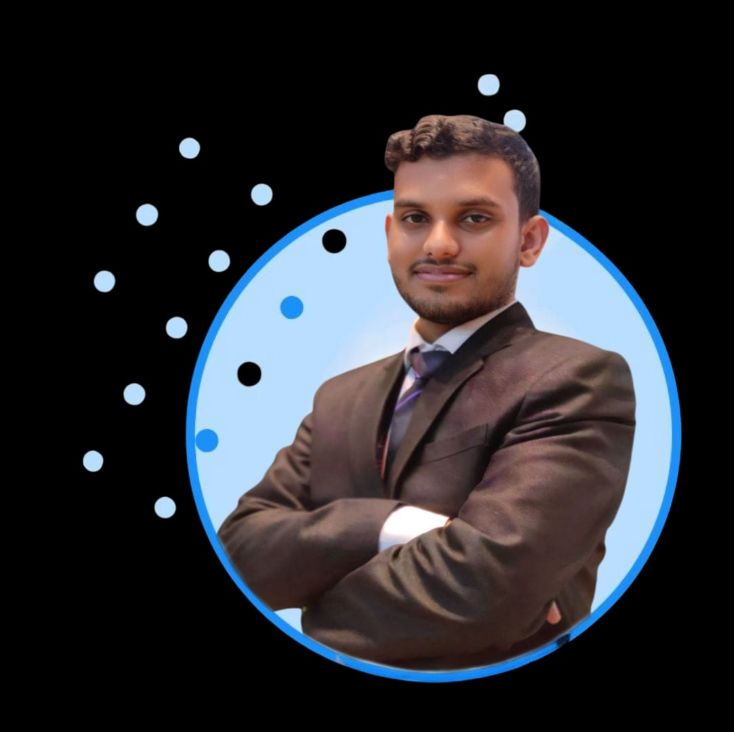
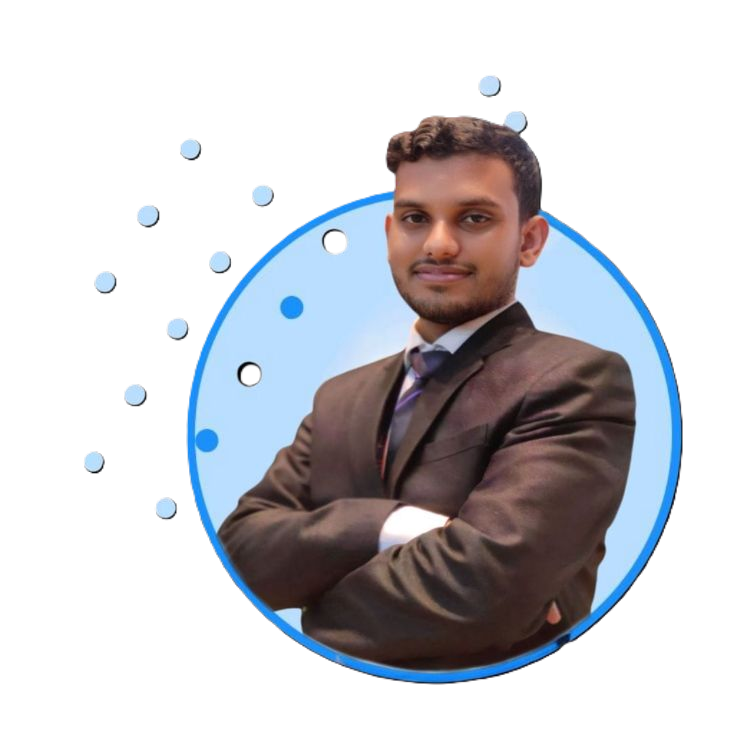
added hero section

diff --git a/index.html b/index.html
@@ -62,7 +62,19 @@
         </div>
     </header>
 
-
+<!-- hero section -->
+ <section class="flex flex-col-reverse md:flex-row p-5 md:p-0 gap-5 justify-between items-center max-w-[1760px] mx-auto">
+    <div class="content max-w-[740px] text-center md:text-left">
+        <h2 class="text-4xl font-bold mb-7">From<span class="bangla-font text-[#00BCFF]"> ইংলিশে বোকা </span>to<span class="bangla-font text-[#00BCFF]"> প্রো </span>in no time! </h2>
+        <p class="bangla-font text-xl font-medium text-[#343439]">আজ থেকেই শুরু হোক আপনার শব্দযাত্রা—নতুন হোন বা অর্ধেক প্রো, BokaVocab-এর Interactive Lessons নেবে আপনাকে একদম অন্য লেভেলে। তো আর দেরি কেন? আজ থেকেই ঝাঁপ দিন, আর হয়ে জান ইংলিশ এর গুরু। </p>
+        <input type="text" placeholder="Enter Your Name" class="input block mt-7 mb-5" />
+        <input type="text" placeholder="Enter Password" class="input block mb-5" />
+        <button class="btn btn-primary">Get Started</button>
+    </div>
+    <div class="image">
+        <img src="assets/hero-student.png" alt="" srcset="">
+    </div>
+ </section>
 
 </body>
 
